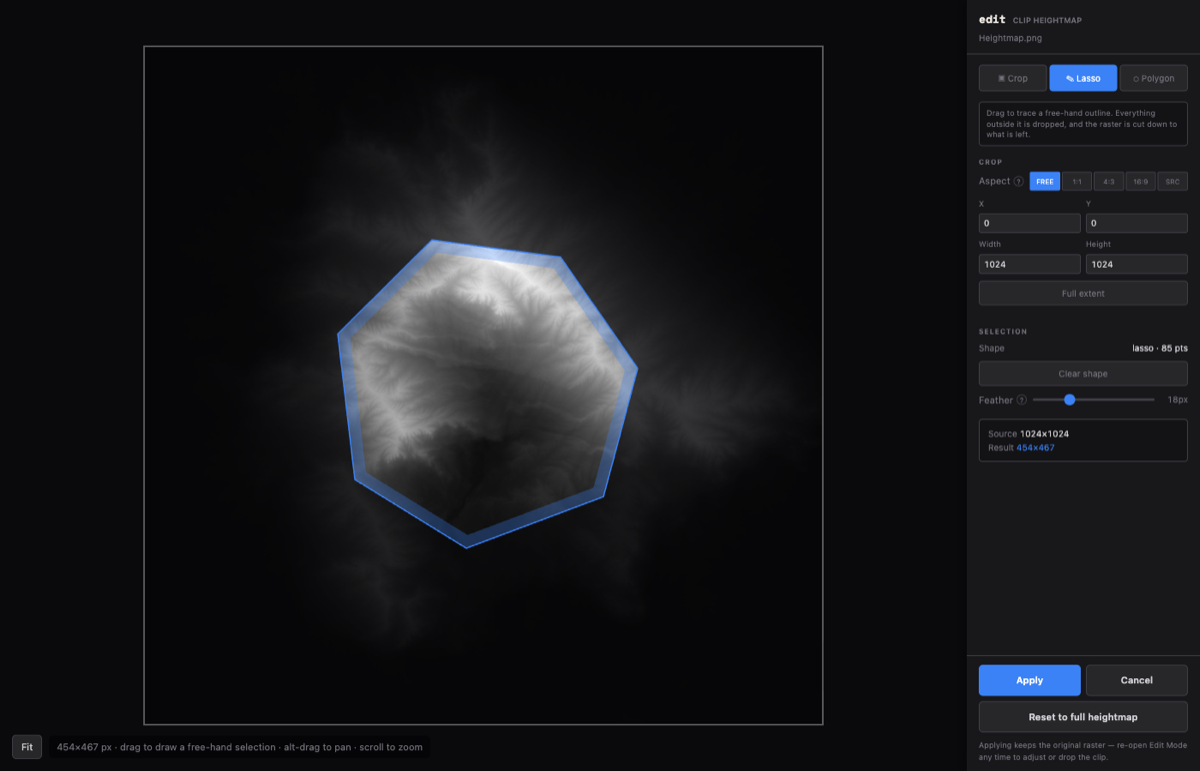
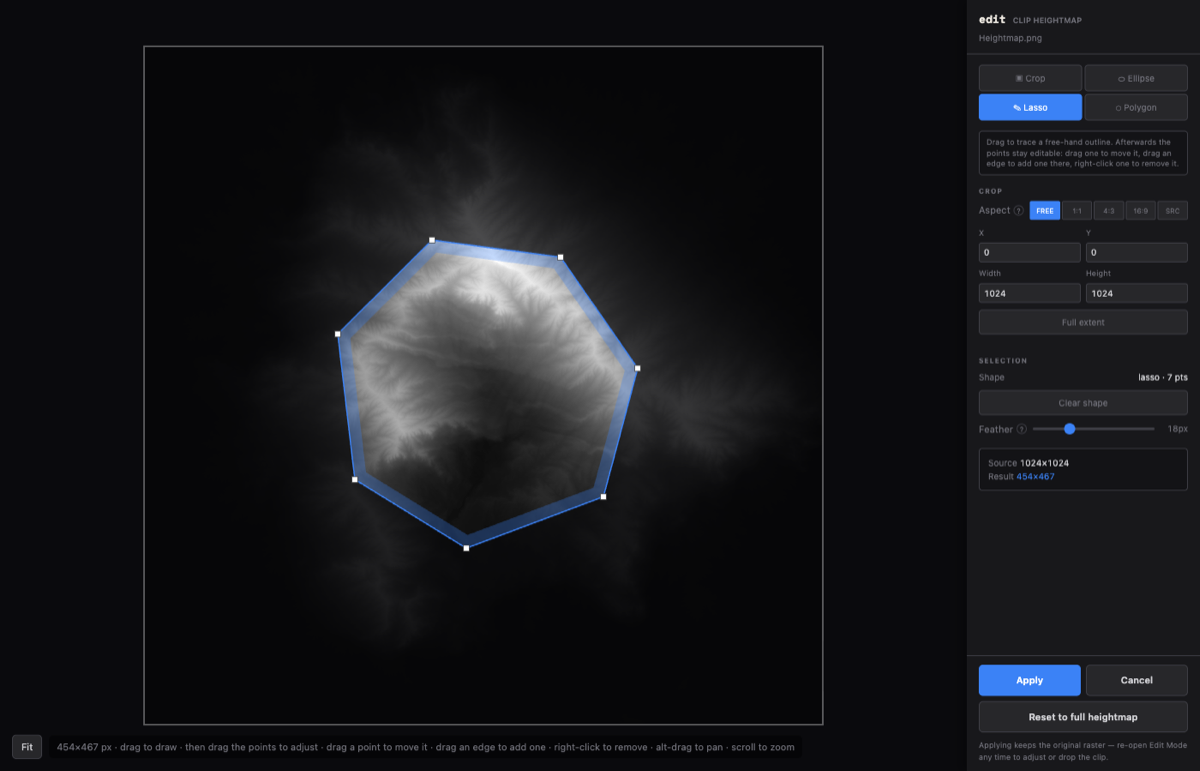
chore: v0.9.6
Changelog entry, the Edit Mode document's ellipse maths and ring-editing
notes, the keyboard table, and a regenerated Edit Mode screenshot — the
old one predated both the four-tool layout and the vertex handles.

diff --git a/docs/Edit-Mode.md b/docs/Edit-Mode.md
@@ -1,8 +1,8 @@
 # Edit Mode
 
 Edit Mode clips the loaded raster before it becomes terrain: a crop rectangle,
-a free-hand lasso, or a polygon. It applies to every source — PNG, GeoTIFF and
-Soundscapes — because all three write the same store slot, and it is
+a free-hand lasso, a polygon, or an ellipse. It applies to every source — PNG,
+GeoTIFF and Soundscapes — because all three write the same store slot, and it is
 non-destructive: the raster as loaded is kept, so the clip can be adjusted or
 dropped at any time.
 
@@ -42,7 +42,11 @@ An `edit` is expressed entirely in source pixel coordinates, so it is
 independent of zoom, window size and device pixel ratio:
 
 ```js
-{ rect: {x, y, w, h}, shape: {type: 'lasso'|'polygon', points: [x0,y0,x1,y1,…]} | null, feather: px }
+{ rect: {x, y, w, h}, shape: Shape | null, feather: px }
+
+// a Shape is a ring of points, or an ellipse:
+{ type: 'lasso'|'polygon', points: [x0,y0,x1,y1,…] }
+{ type: 'ellipse', cx, cy, rx, ry }
 ```
 
 ### When the clip is dropped
@@ -82,6 +86,8 @@ After Apply the view refits exactly as a fresh load does — `autoZoom` plus
 
 ## Rasterizing a selection
 
+### Rings
+
 Lasso and polygon differ only in how their vertices are collected; both end as a
 closed ring filled with the even-odd rule. For each row, the ring's edges are
 intersected with the row's centre line $y_c = y + \tfrac{1}{2}$:
@@ -93,9 +99,23 @@ than corners is what keeps a hand-drawn rectangle from gaining a half-pixel
 fringe, and the pair-wise fill handles concave and horseshoe shapes (four or more
 crossings on one row) without a special case.
 
-A lasso emits a vertex per pointer move, thinned to one per ~3 screen pixels —
-otherwise a single stroke yields thousands of near-duplicate vertices for the
-scanline fill to grind through.
+A lasso emits a vertex per pointer move, thinned to one per ~3 screen pixels
+while drawing and then run through Douglas–Peucker (`simplifyFlat`, shared with
+the contour smoother) at ~1.5 screen pixels when the stroke is released. The
+decimation is invisible on screen and typically cuts the count by 5–10×, which
+matters twice over: the scanline fill has fewer edges to cross, and what comes
+back is few enough vertices to edit by hand.
+
+### Ellipses
+
+An ellipse is stored as an ellipse — `{cx, cy, rx, ry}` — not as a ring of
+sampled points. A 128-gon shows visible flats once the raster is a few thousand
+pixels wide, and the implicit form is both exact and cheaper: solving
+
+$$\left(\frac{x - c_x}{r_x}\right)^2 + \left(\frac{y - c_y}{r_y}\right)^2 \le 1$$
+
+for $x$ gives the filled span of each row directly, so the fill touches only the
+pixels it sets rather than testing the $4/\pi$ of the bounding box it does not.
 
 The raster's own voids (GeoTIFF NoData, transparent PNG pixels) are folded into
 the same mask, so a void's edge feathers like any other edge.
@@ -171,8 +191,19 @@ the ramp is not baked into the source and re-ramped on the next run.
   rect still covers the whole raster, a drag inside it draws a new one — there is
   no outside to start from, and moving it could not go anywhere. Shift forces a
   new rect at any size.
+- **Ellipse**: drag out its bounding box; hold **Shift** for a perfect circle,
+  which works while drawing *and* while resizing because the modifier is read on
+  every pointer move rather than latched at the start of the drag. Drag inside to
+  move it, or use the same eight handles the crop has.
 - **Polygon**: click to place vertices; close with the first vertex, `Enter`, or a
   double-click. `Backspace` removes the last vertex.
+- **Editing a committed ring**: a lasso or polygon stays editable after it is
+  closed, so a selection that came out nearly right does not have to be redrawn.
+  Drag a vertex to move it, drag an *edge* to split it and pull the new vertex
+  out in the same gesture, right-click a vertex to remove it (never below the
+  three that still enclose something). The vertex handles are drawn whenever a
+  ring exists and a ring tool is selected — the crop and ellipse tools have their
+  own handles in the same places, so they take over the pointer instead.
 - **View**: scroll to zoom about the cursor, alt-drag or middle-drag to pan, `Fit`
   to reset.
 - `Esc` cancels a half-drawn shape, and otherwise leaves Edit Mode without
@@ -194,4 +225,4 @@ release — a lasso emits a point per pointer move, and re-rendering the panel
 | `src/store/useStore.js` | Source/derived split, mask memo, `setEdit`, the `keepEdit` rule, erosion scatter-back |
 | `src/components/HeightmapEditor.jsx` | The 2D canvas: preview, overlays, pointer tools |
 | `src/components/EditPanel.jsx` | The right-hand panel while editing |
-| `tests/edit.spec.js` | End-to-end clip, clear, cancel, lasso, polygon, soundscape and GeoTIFF coverage |
+| `tests/edit.spec.js` | End-to-end clip, clear, cancel, lasso, polygon, ellipse, ring editing, soundscape and GeoTIFF coverage |

diff --git a/CHANGELOG.md b/CHANGELOG.md
@@ -7,6 +7,17 @@ and this project adheres to [Semantic Versioning](https://semver.org/spec/v2.0.0
 
 ## [Unreleased]
 
+## [0.9.6] - 2026-08-12
+
+Two additions to Edit Mode, both about not having to start over. Circles and
+ellipses previously had to be traced by hand with the lasso, and any selection
+that came out slightly wrong had to be redrawn from scratch — the vertices were
+thrown away the moment the ring closed.
+
+### Added
+- **An ellipse selection in Edit Mode**, with Shift for a perfect circle. It is stored as an ellipse rather than sampled into a polygon: a 128-gon shows visible flats once the raster is a few thousand pixels wide, and the implicit form is both exact and cheaper to fill — solving the ellipse equation for `x` gives each row's span directly, so the fill touches only the pixels it sets instead of testing the 4/π of the bounding box it does not. Shift is read on every pointer move rather than latched when the drag starts, so it snaps to a circle mid-drag and while resizing, not only at the outset.
+- **Lasso and polygon selections stay editable after they are closed.** Getting a hand-drawn outline slightly wrong meant redrawing the whole thing. Now the vertices remain: drag one to move it, drag an *edge* to split it and pull the new vertex out in the same gesture, right-click one to remove it (never below the three that still enclose an area). Lassos are additionally decimated on release with the Douglas–Peucker pass already used for contour smoothing (`simplifyFlat`, now exported) — a stroke that emitted 200 near-duplicate vertices comes back as 20-odd editable ones, which also gives the scanline fill fewer edges to cross.
+
 ## [0.9.5] - 2026-08-11
 
 A release about finding things. The app could already render 56 curated looks

diff --git a/README.md b/README.md
@@ -92,13 +92,15 @@ projectable, not georeferenced, or projected fine and lying somewhere else.
 
 ## Edit Mode
 
-<img src="docs/images/edit-mode.png" alt="Edit Mode: a lasso selection with a feathered edge over the heightmap">
+<img src="docs/images/edit-mode.png" alt="Edit Mode: a lasso selection with editable points and a feathered edge over the heightmap">
 
 Press `E` and the viewport becomes a flat picture of the raster. Crop it with a
-handled rectangle (aspect locks, numeric fields), or cut out an arbitrary region
-with a lasso or polygon. The result is centred automatically, and Feather ramps
-the clipped edge down to the terrain's own base level instead of ending it in a
-cliff.
+handled rectangle (aspect locks, numeric fields), draw an ellipse — Shift for a
+perfect circle — or cut out an arbitrary region with a lasso or polygon. A lasso
+or polygon stays editable once closed: drag a point to move it, drag an edge to
+add one, right-click to remove. The result is centred automatically, and Feather
+ramps the clipped edge down to the terrain's own base level instead of ending it
+in a cliff.
 
 The clip is non-destructive: the original raster is kept, so Edit Mode can be
 re-entered to adjust it or cleared to get the whole heightmap back. It works the
@@ -243,6 +245,8 @@ with them.
 | `Esc` | Cancel the shape being drawn, leave Edit Mode, or cancel elevation-profile picking |
 | `Enter` | Close the shape being drawn, or apply the clip |
 | `Backspace` | Remove the last polygon vertex |
+| `Shift` | While drawing or resizing an ellipse, constrain it to a circle |
+| Right-click | Remove a point from a committed lasso or polygon |
 | `Q` | Toggle auto-rotate |
 | `1` – `5` | Export SVG, PNG, PNG α, STL, WebM |
 
